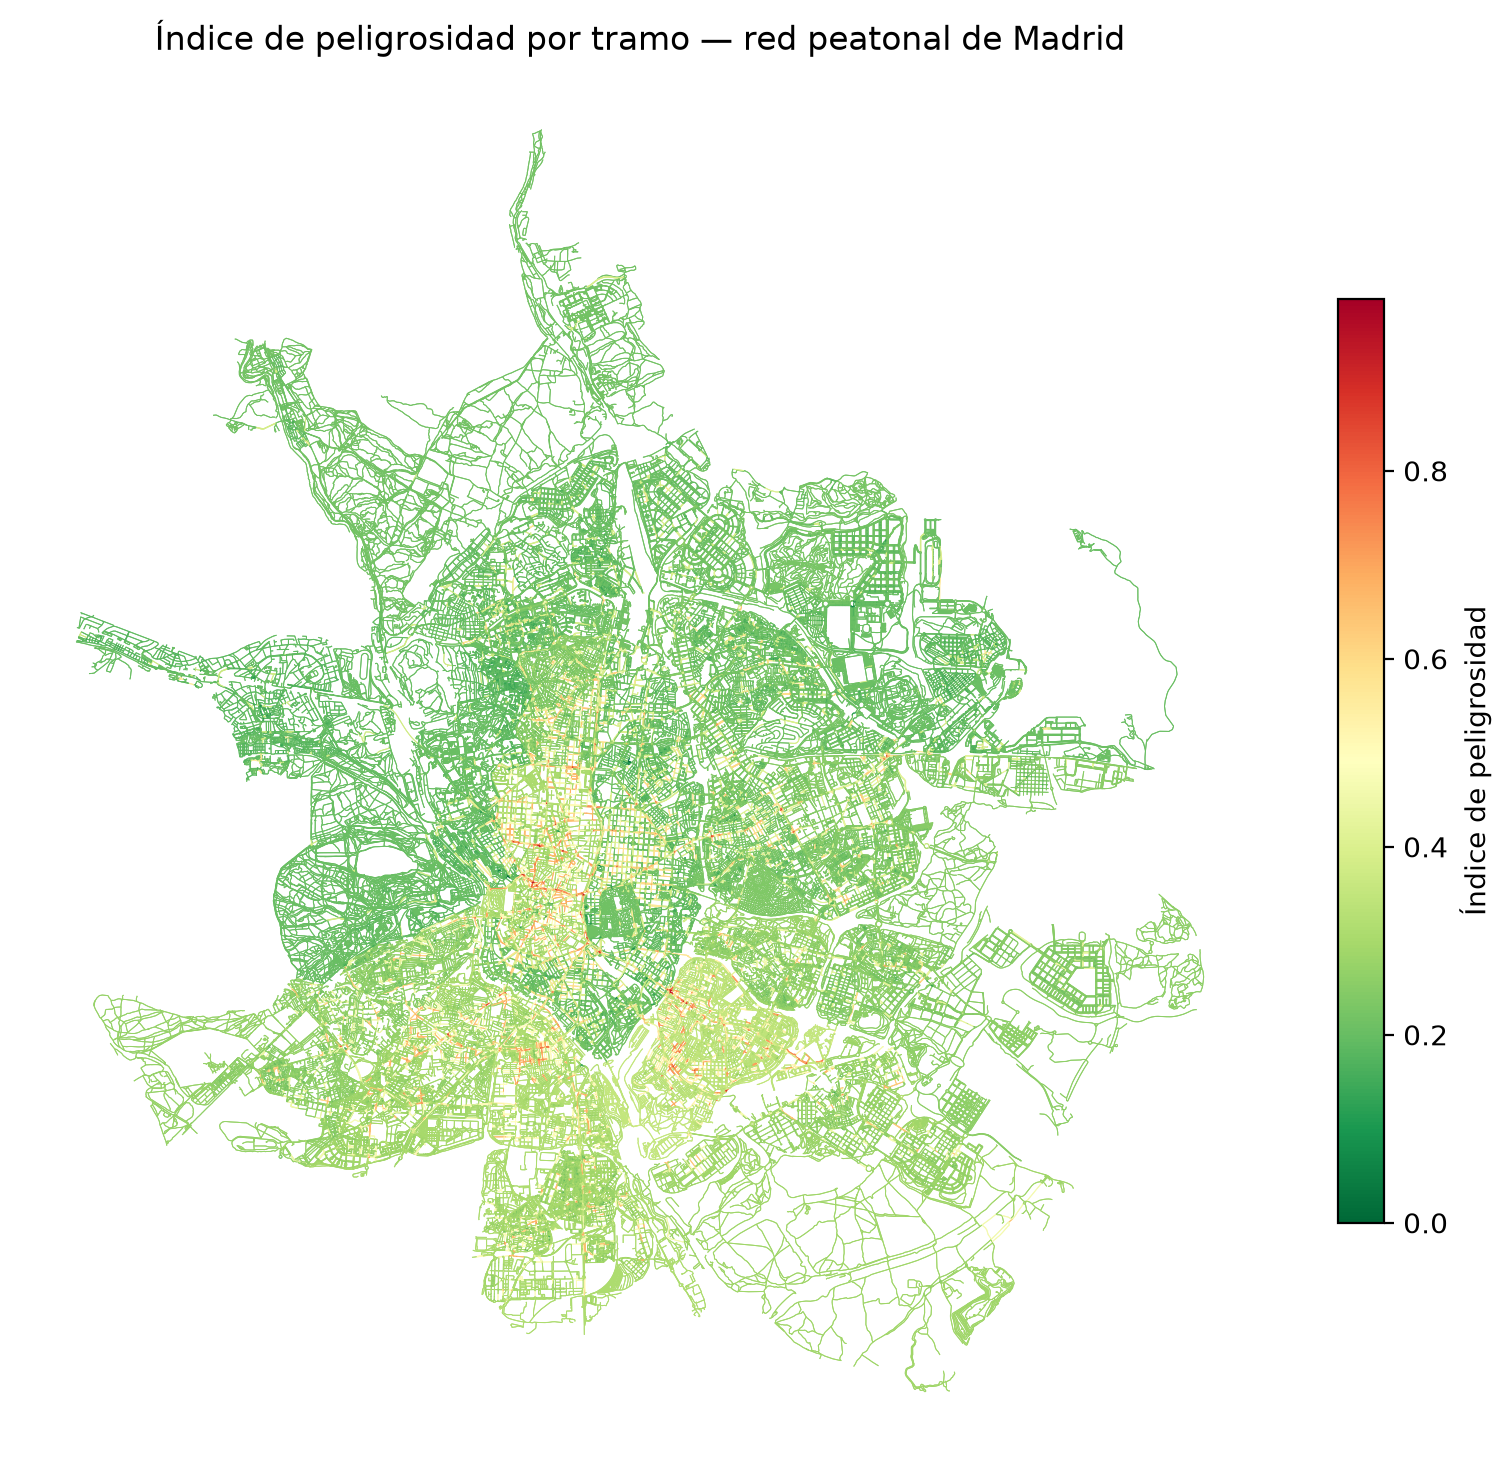
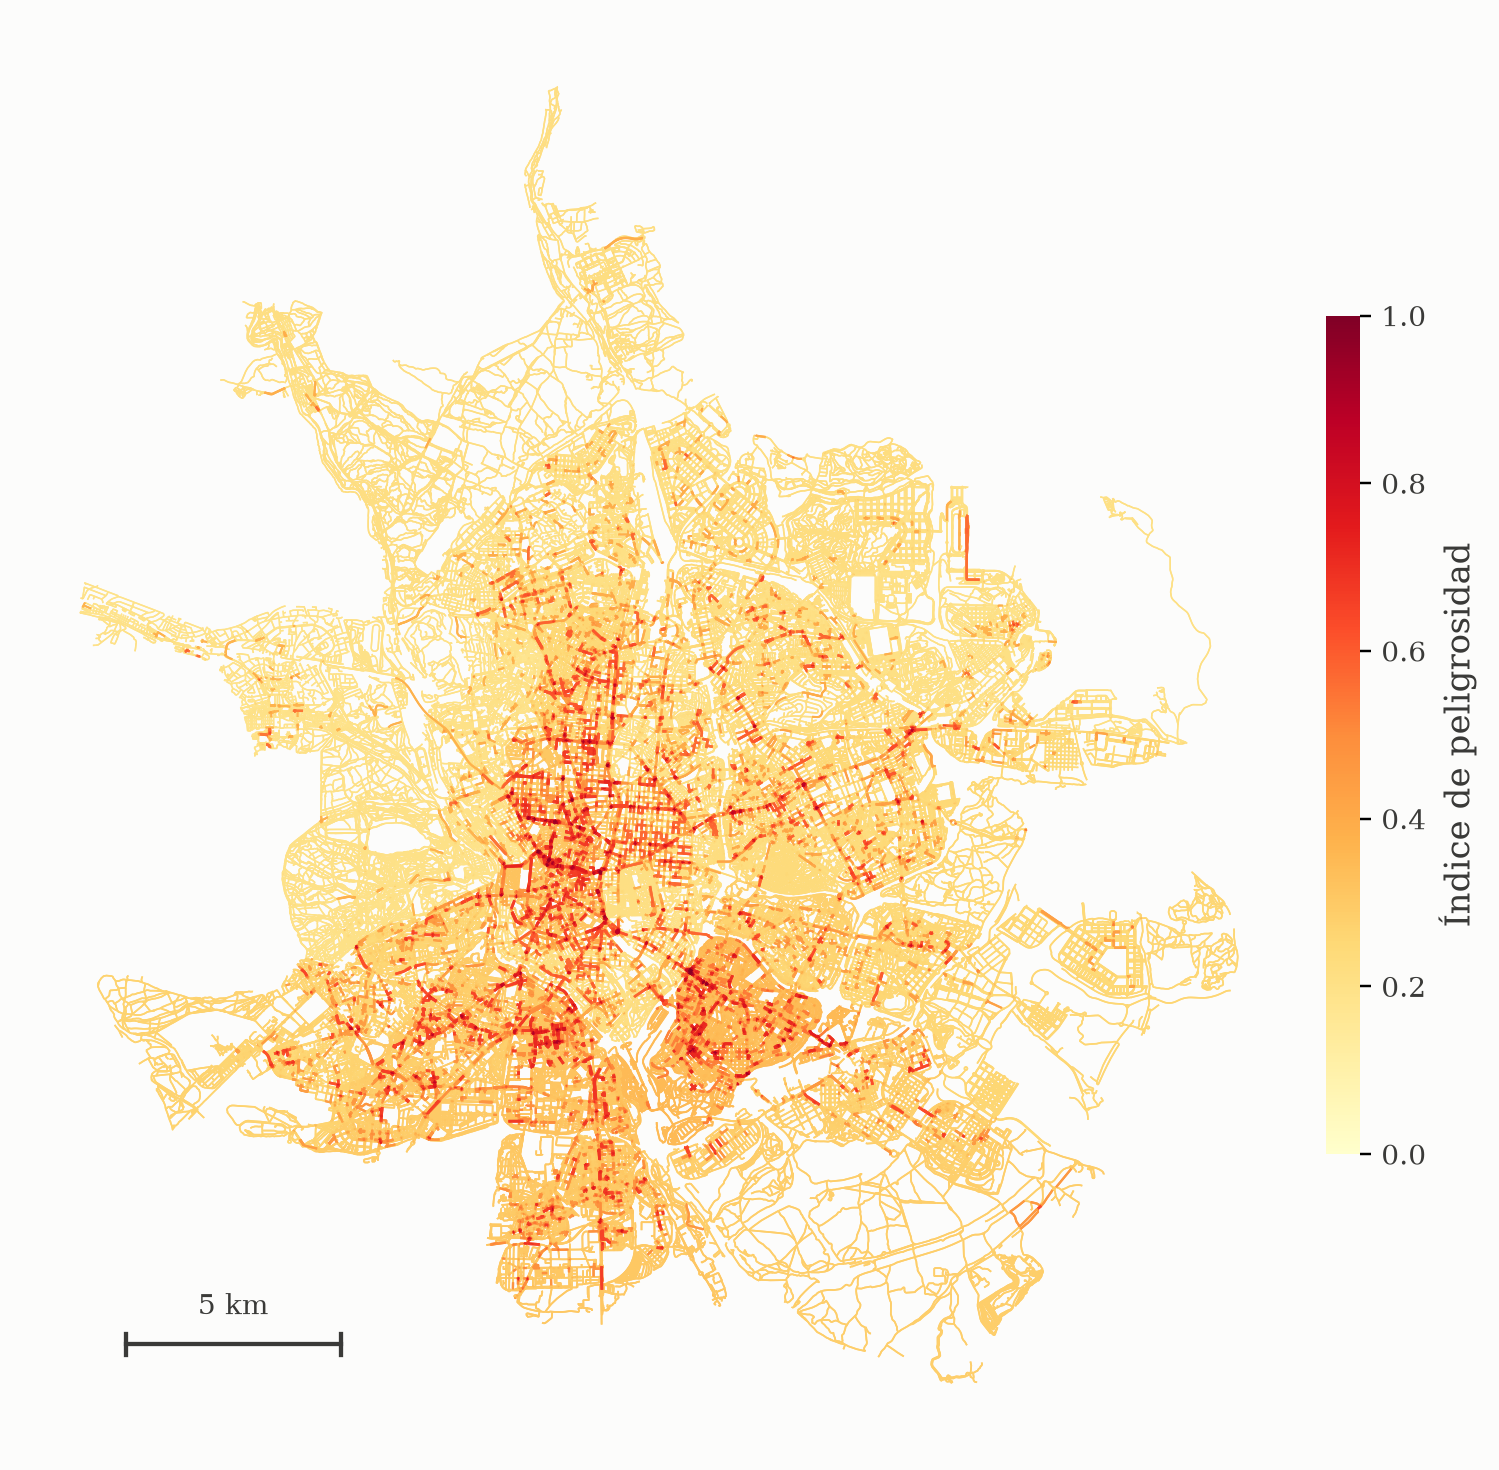
Rediseñar el mapa de peligrosidad con paleta secuencial
Sustituye la escala RdYlGn_r (tipo semáforo, engañosa para una
magnitud continua sin polo central) por YlOrRd, secuencial de un solo
recorrido claro->oscuro apropiada para el índice de peligrosidad.
Añade barra de escala, tipografía serif a juego con la memoria, quita
el título redundante con el pie de figura, y dibuja los tramos más
peligrosos por encima del resto para que no queden ocultos.

El nuevo mapa revela un patrón que la paleta anterior ocultaba: un
foco secundario de peligrosidad al sur de la ciudad, coincidente con
los distritos de mayor vulnerabilidad territorial (Usera, Villaverde,
Puente de Vallecas, Carabanchel). Se actualiza el texto y el pie de
figura del Capítulo 3 para reflejarlo.

diff --git a/scripts/10_mapa_peligrosidad.py b/scripts/10_mapa_peligrosidad.py
@@ -3,6 +3,11 @@
 Consulta edges.geom e indice_peligrosidad, reproyecta a un sistema métrico
 (ETRS89/UTM 30N) para no distorsionar la geometría de Madrid, y vuelca el
 resultado en docs/imagenes/mapa_peligrosidad.png (Figura del Capítulo 3).
+
+La paleta es secuencial (YlOrRd, de ColorBrewer): un único recorrido claro
+-> oscuro apropiado para una magnitud continua como indice_peligrosidad, a
+diferencia de una escala tipo semáforo (verde-amarillo-rojo), que induce a
+leerla como si tuviera dos polos en torno a un punto medio.
 """
 
 import os
@@ -10,11 +15,16 @@ import os
 import geopandas as gpd
 import matplotlib.pyplot as plt
 from dotenv import load_dotenv
+from matplotlib.lines import Line2D
 from pathlib import Path
 from sqlalchemy import create_engine
 
 BASE = Path(__file__).parent.parent
 OUT_PATH = BASE / "docs/imagenes/mapa_peligrosidad.png"
+
+COLOR_FONDO = "#fcfcfb"
+COLOR_TEXTO = "#3a3a38"
+CMAP = "YlOrRd"
 
 load_dotenv(BASE / ".env")
 
@@ -28,6 +38,18 @@ engine = create_engine(
     )
 )
 
+
+def dibujar_escala(ax, x0, y0, longitud_m=5000):
+    """Barra de escala sencilla (metros, en el CRS proyectado EPSG:25830)."""
+    ax.add_line(Line2D([x0, x0 + longitud_m], [y0, y0], color=COLOR_TEXTO, linewidth=1.4))
+    for x in (x0, x0 + longitud_m):
+        ax.add_line(Line2D([x, x], [y0 - 250, y0 + 250], color=COLOR_TEXTO, linewidth=1.4))
+    ax.text(
+        x0 + longitud_m / 2, y0 + 550, f"{longitud_m // 1000} km",
+        ha="center", va="bottom", fontsize=9, color=COLOR_TEXTO,
+    )
+
+
 if __name__ == "__main__":
     edges = gpd.read_postgis(
         "SELECT geom, indice_peligrosidad FROM edges WHERE indice_peligrosidad IS NOT NULL",
@@ -35,20 +57,39 @@ if __name__ == "__main__":
         geom_col="geom",
     )
     edges = edges.to_crs("EPSG:25830")
+    # Los tramos más peligrosos se dibujan al final (encima), para que no
+    # queden ocultos bajo la mayoría de tramos de bajo riesgo.
+    edges = edges.sort_values("indice_peligrosidad")
     print(f"Tramos a dibujar: {len(edges)}")
 
-    fig, ax = plt.subplots(figsize=(10, 10))
+    plt.rcParams["font.family"] = "serif"
+
+    fig, ax = plt.subplots(figsize=(9, 9))
+    fig.patch.set_facecolor(COLOR_FONDO)
+    ax.set_facecolor(COLOR_FONDO)
+
     edges.plot(
         ax=ax,
         column="indice_peligrosidad",
-        cmap="RdYlGn_r",
-        linewidth=0.35,
-        legend=True,
-        legend_kwds={"label": "Índice de peligrosidad", "shrink": 0.6},
+        cmap=CMAP,
+        linewidth=edges["indice_peligrosidad"] * 0.9 + 0.3,
+        vmin=0,
+        vmax=1,
     )
+
+    sm = plt.cm.ScalarMappable(cmap=CMAP, norm=plt.Normalize(vmin=0, vmax=1))
+    cbar = fig.colorbar(sm, ax=ax, shrink=0.55, pad=0.02, aspect=25)
+    cbar.set_label("Índice de peligrosidad", color=COLOR_TEXTO, fontsize=11)
+    cbar.set_ticks([0, 0.2, 0.4, 0.6, 0.8, 1.0])
+    cbar.ax.tick_params(labelcolor=COLOR_TEXTO, labelsize=9)
+    cbar.outline.set_visible(False)
+
+    xmin, ymin, xmax, ymax = edges.total_bounds
+    dibujar_escala(ax, xmin + (xmax - xmin) * 0.04, ymin + (ymax - ymin) * 0.03)
+
     ax.set_axis_off()
-    ax.set_title("Índice de peligrosidad por tramo — red peatonal de Madrid")
+    ax.set_aspect("equal")
 
     OUT_PATH.parent.mkdir(parents=True, exist_ok=True)
-    fig.savefig(OUT_PATH, dpi=200, bbox_inches="tight")
+    fig.savefig(OUT_PATH, dpi=220, bbox_inches="tight", facecolor=COLOR_FONDO)
     print(f"Mapa guardado en {OUT_PATH}")

diff --git a/docs/capitulos/03_Propuesta.tex b/docs/capitulos/03_Propuesta.tex
@@ -224,12 +224,12 @@ El índice de peligrosidad $p(e) \in [0, 1]$ no se utiliza directamente como cos
 
 donde $l(e)$ es la longitud real del tramo en metros y $\alpha = 4$ es una constante que determina cuánto se penaliza a los tramos más peligrosos: un tramo con $p(e) = 1$ cuesta, a efectos del algoritmo, cinco veces su longitud real, mientras que un tramo con $p(e) = 0$ cuesta exactamente su longitud. Este diseño tiene dos ventajas: el coste sigue expresado en una magnitud interpretable (metros equivalentes), y el algoritmo de Dijkstra —que minimiza la suma de costes— sigue teniendo un incentivo natural para preferir rutas cortas, matizado por la peligrosidad de cada tramo. El valor de $\alpha$ se fijó de forma empírica, comprobando sobre varios pares origen-destino que el sistema propone desvíos perceptibles pero razonables (véase el Capítulo~\ref{cap:pruebas}).
 
-La Figura~\ref{fig:mapa_peligrosidad} muestra el resultado de aplicar la Ecuación~\ref{eq:coste} a los 524\,292 tramos de la red. El patrón que emerge es coherente con lo que cabría esperar de una ciudad como Madrid: el índice de peligrosidad se concentra sobre todo en el distrito Centro y en los principales ejes de tráfico denso que lo atraviesan, mientras que la mayor parte de la periferia residencial presenta valores bajos. Este mapa anticipa, de forma visual, el patrón cuantitativo que se documenta con más detalle en el Capítulo~\ref{cap:pruebas}: los pares origen-destino que discurren por el centro son precisamente aquellos donde la ruta segura se desvía más de la ruta rápida.
+La Figura~\ref{fig:mapa_peligrosidad} muestra el resultado de aplicar la Ecuación~\ref{eq:coste} a los 524\,292 tramos de la red. Emergen dos focos de peligrosidad de naturaleza distinta. El primero, más intenso, cubre el distrito Centro y los principales ejes de tráfico denso que lo atraviesan, impulsado sobre todo por el componente de accidentalidad y atropellos de la Ecuación~\ref{eq:coste}. El segundo, más difuso pero claramente visible al sur de la ciudad, coincide con los distritos de mayor vulnerabilidad territorial según el Índice Iguala —Usera, Villaverde, Puente de Vallecas y Carabanchel (Sección~\ref{subsec:vulnerabilidad_datos})—, y refleja el peso del componente de vulnerabilidad. La periferia residencial del norte y el oeste, en cambio, presenta valores bajos de forma consistente. Este mapa anticipa, de forma visual, el patrón cuantitativo que se documenta con más detalle en el Capítulo~\ref{cap:pruebas}: los pares origen-destino que discurren por el centro son precisamente aquellos donde la ruta segura se desvía más de la ruta rápida.
 
 \begin{figure}[h]
 \centering
 \includegraphics[width=0.8\textwidth]{imagenes/mapa_peligrosidad.png}
-\caption{Índice de peligrosidad $p(e)$ por tramo en la red peatonal de Madrid (verde: bajo, rojo: alto). Generado por \texttt{scripts/10\_mapa\_peligrosidad.py}.}
+\caption{Índice de peligrosidad $p(e)$ por tramo en la red peatonal de Madrid (amarillo pálido: bajo, rojo oscuro: alto). Generado por \texttt{scripts/10\_mapa\_peligrosidad.py}.}
 \label{fig:mapa_peligrosidad}
 \end{figure}
 
